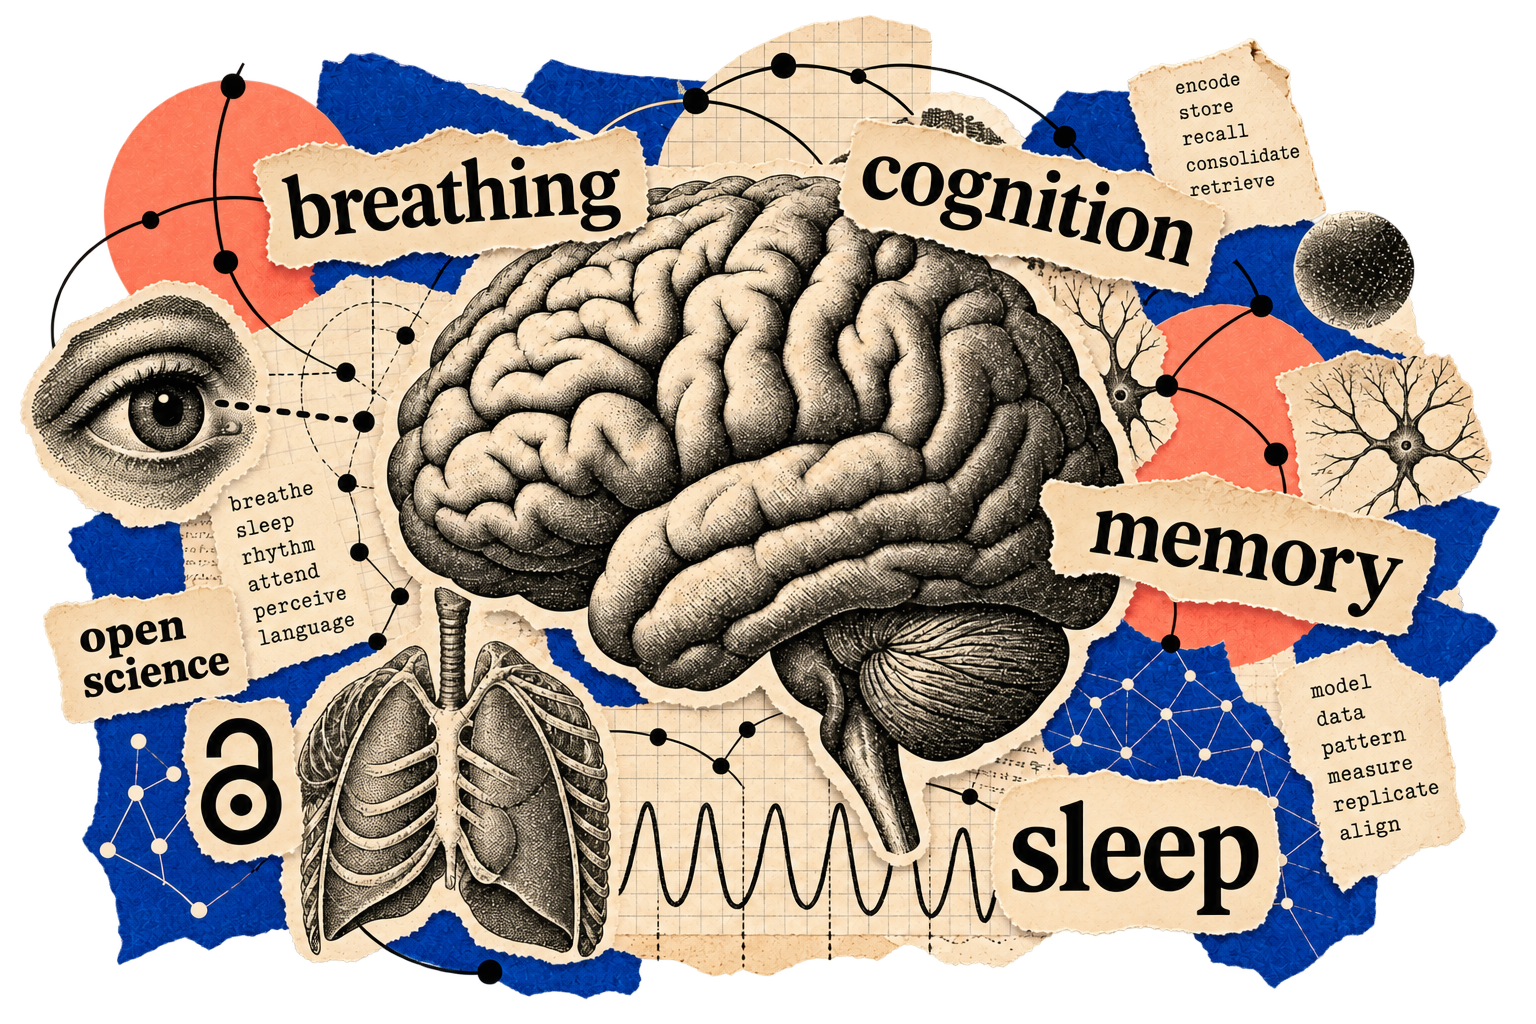
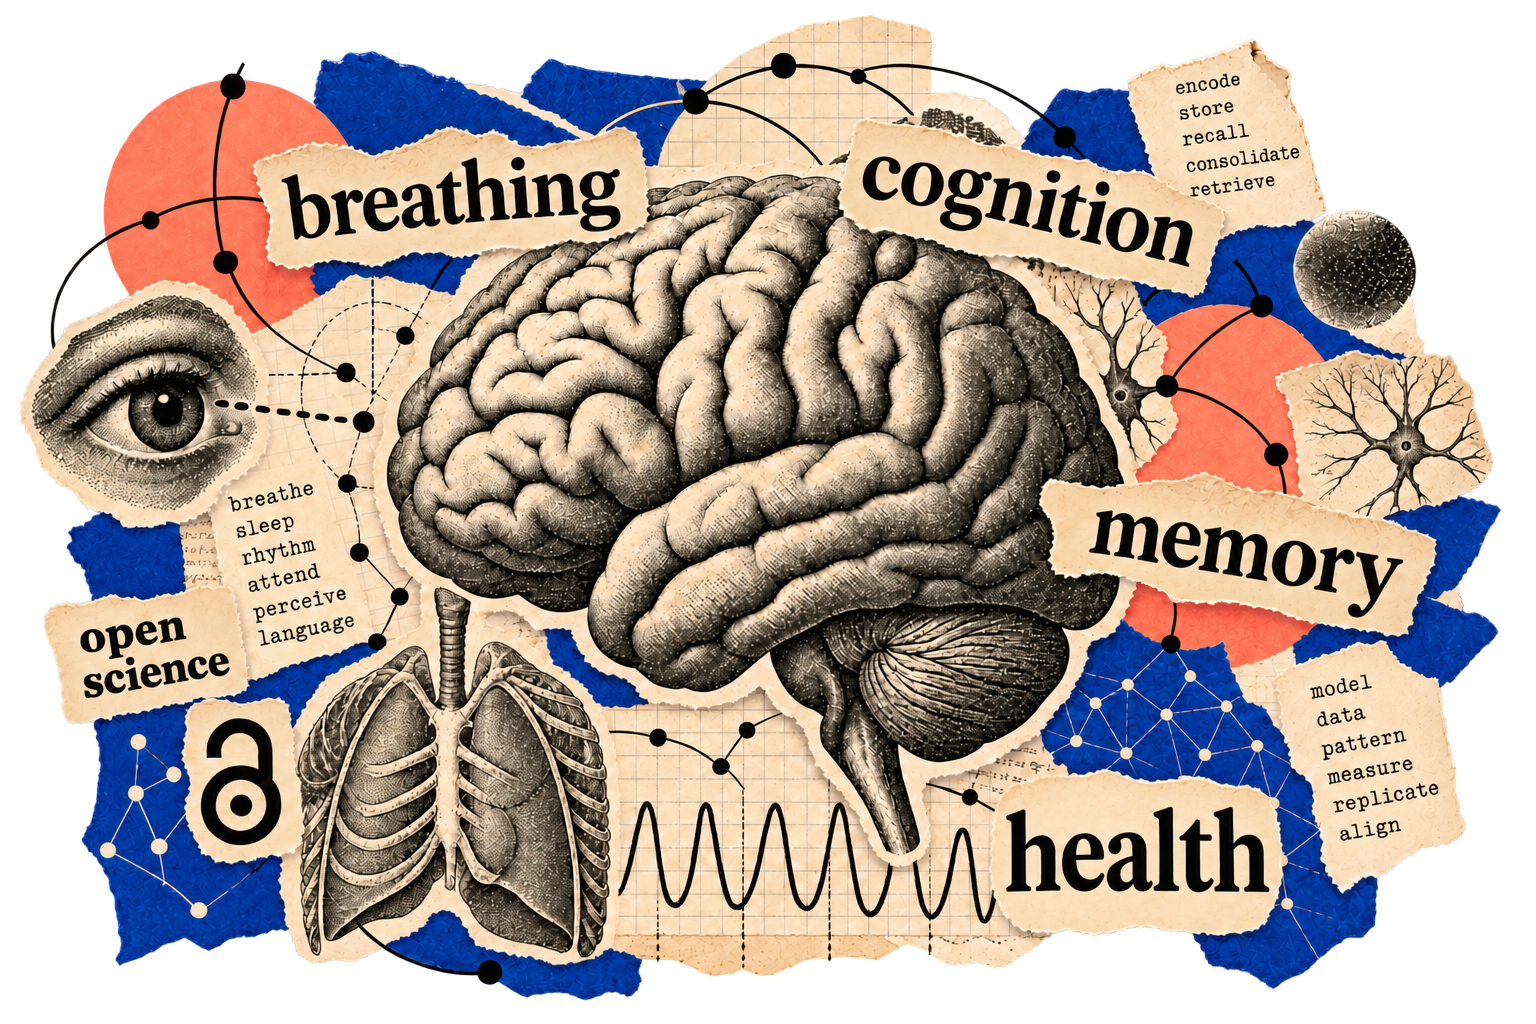
content: update breathing and health homepage artwork

diff --git a/lab.md b/lab.md
@@ -6,7 +6,7 @@ permalink: /lab/
 published: true
 ---
 
-The Breathing, Brain, and Cognition (BBC) Lab at the University of Hull investigates how human breathing interacts with brain activity, perception, attention, memory, sleep, and wellbeing.
+The Breathing, Brain, and Cognition (BBC) Lab at the University of Hull investigates how human breathing interacts with brain activity, perception, attention, memory, sleep, and health.
 
 Breathing is more than gas exchange. Nasal and oral pathways, the phase of each breath, and shifts in respiratory rate and variability are coupled to brain rhythms, autonomic state, and cognitive performance. At the same time, cognitive demands reshape how we breathe.
 
@@ -15,7 +15,7 @@ Breathing is more than gas exchange. Nasal and oral pathways, the phase of each 
 - **Breathing, eye movements, and attention:** How visual attention, oculomotor dynamics, pupil state, and memory encoding vary across inhalation and exhalation, and how breathing coordinates with cognitive tasks.
 - **Nasal versus oral breathing:** How the route of breathing affects visual search and memory consolidation across wakefulness and rest.
 - **Brain and respiratory coupling:** Using neuroimaging and physiological recordings to study how breathing rhythms and sighs interact with cortical dynamics, arousal, and task performance.
-- **Individual differences and respiratory signatures:** How stable a person's breathing patterns are across days, tasks, and rest, and how respiratory traits relate to cognition, sleep, and wellbeing in large cohorts.
+- **Individual differences and respiratory signatures:** How stable a person's breathing patterns are across days, tasks, and rest, and how respiratory traits relate to cognition, sleep, and health and wellbeing in large cohorts.
 
 ## Methods
 

diff --git a/research.md b/research.md
@@ -11,7 +11,7 @@ I lead the [Breathing, Brain, and Cognition Lab]({{ '/lab/' | relative_url }}) a
 
 How do the rhythms and pathways of breathing shape the way we attend, remember, and act, and how do cognitive demands and brain states in turn alter how we breathe?
 
-In laboratory studies using respiratory recording and eye tracking, we investigate both the route of breathing (nasal versus oral) and how visual perception, attention, and memory encoding vary across inhalation and exhalation. Current work combines these experimental approaches with large neuroimaging and physiological datasets to examine individual differences in breathing patterns, how respiratory rhythms couple with brain activity, and how bodily regulation relates to cognition, sleep, and wellbeing.
+In laboratory studies using respiratory recording and eye tracking, we investigate both the route of breathing (nasal versus oral) and how visual perception, attention, and memory encoding vary across inhalation and exhalation. Current work combines these experimental approaches with large neuroimaging and physiological datasets to examine individual differences in breathing patterns, how respiratory rhythms couple with brain activity, and how bodily regulation relates to cognition, sleep, and health and wellbeing.
 
 - [Does oral breathing disrupt memory consolidation during waking rest? A registered report](https://doi.org/10.1177/17470218251328994) (2025).
 - Respiratory phase and visuospatial attention: A replication and extension (Roberts et al., 2026). [PsyArXiv](https://osf.io/preprints/psyarxiv/n5ha3_v1).

diff --git a/index.md b/index.md
@@ -10,9 +10,9 @@ redirect_from:
 
 <section class="home-composition" aria-label="About my work">
   <div class="home-introduction">
-    <img class="intro-note" src="{{ '/images/collage/introduction-note.png' | relative_url }}" alt="I am a Lecturer in Psychology at the University of Hull. I study human cognition, memory, and language, and how they interact with the brain and bodily states such as breathing and sleep. Alongside this, I work on quantitative research methods and measurement." width="1448" height="1086" />
+    <img class="intro-note" src="{{ '/images/collage/introduction-note.png' | relative_url }}" alt="I am a Lecturer in Psychology at the University of Hull. I study how breathing shapes human cognition, memory, language, and health." width="1448" height="1086" />
   </div>
-  <img class="home-brain" src="{{ '/images/collage/brain-language.png' | relative_url }}" alt="A cut-paper and vintage engraving collage of a brain, lungs, eye, physiological waveform, and the words breathing, cognition, memory, sleep, and open science." width="1536" height="1024" fetchpriority="high" />
+  <img class="home-brain" src="{{ '/images/collage/brain-language.png' | relative_url }}" alt="A cut-paper and vintage engraving collage of a brain, lungs, eye, physiological waveform, and the words breathing, cognition, memory, health, and open science." width="1536" height="1024" fetchpriority="high" />
 </section>
 
 <div class="home-contact" markdown="1">
